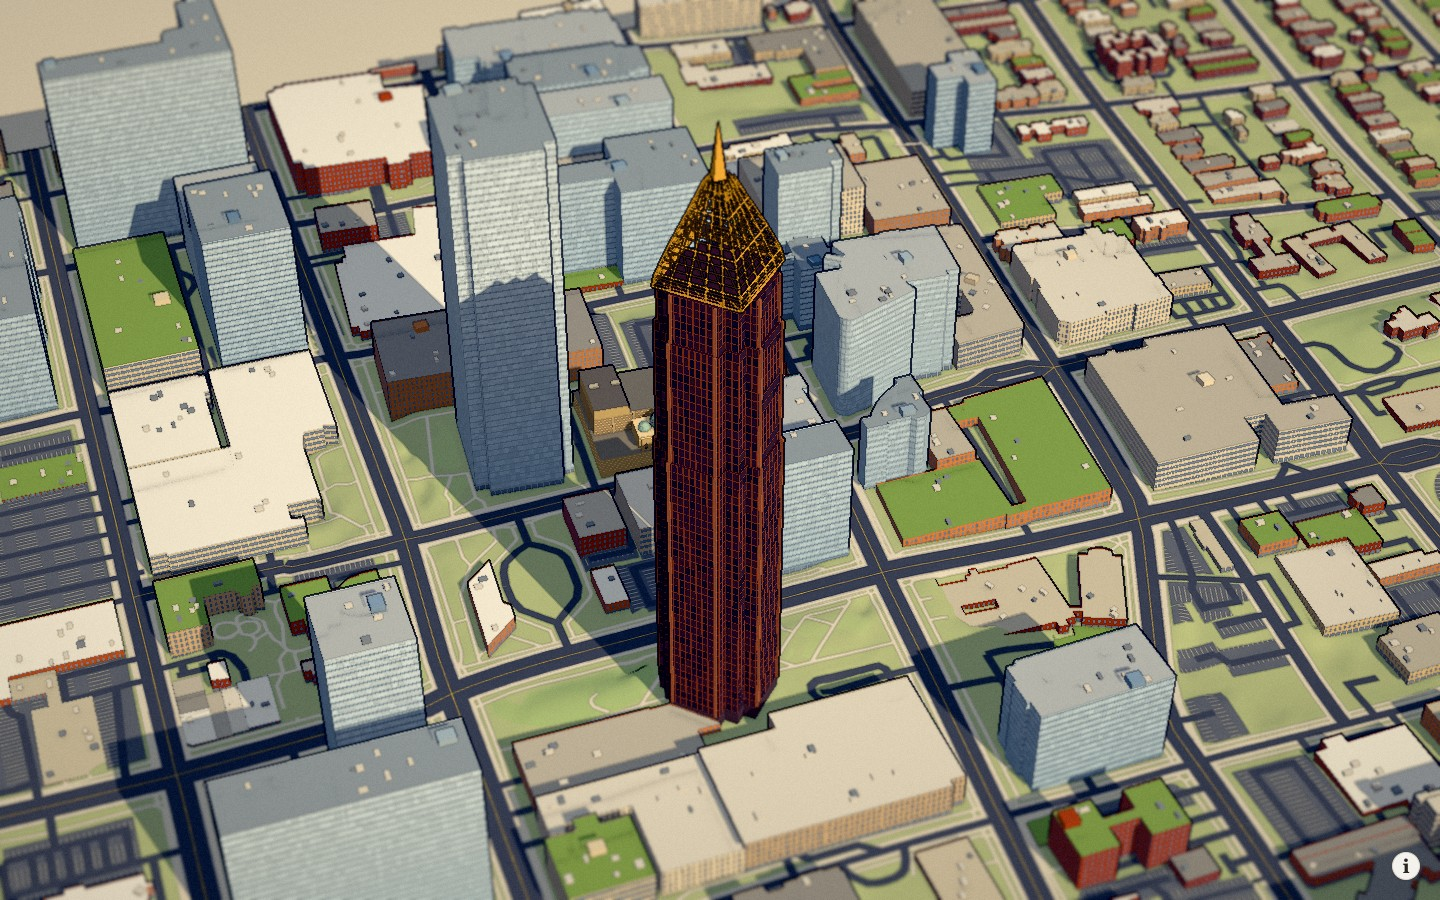
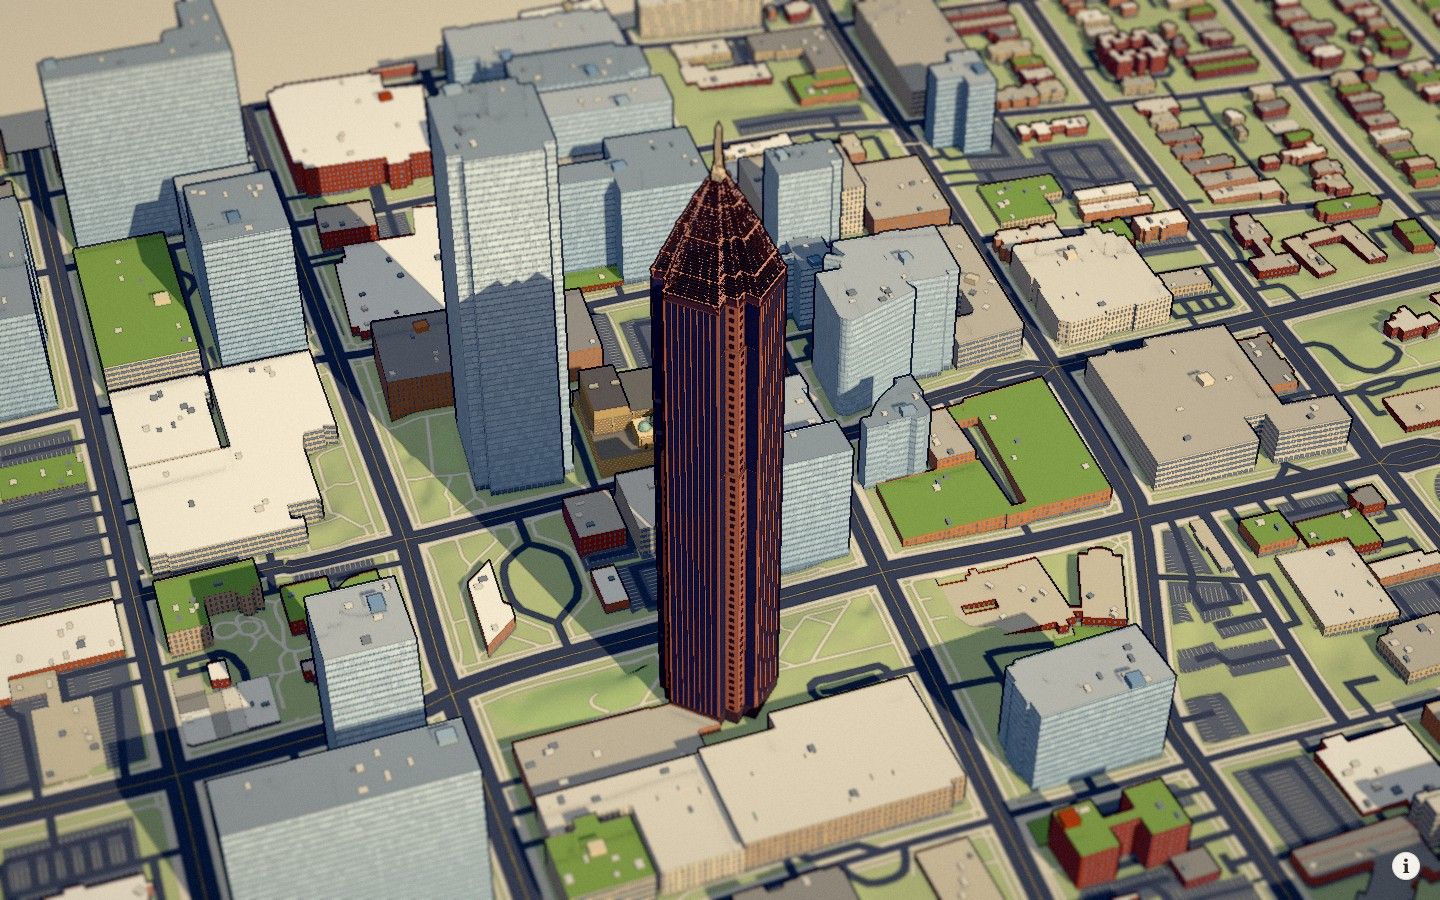
Seat the Plaza lattice above the stepped office tower

Changed region(s): [[0.4375, 0.1556, 0.5625, 0.8089]]

diff --git a/web/src/city/midtown-landmarks.ts b/web/src/city/midtown-landmarks.ts
@@ -1,5 +1,5 @@
-import { CylinderGeometry, Vector3 } from 'three';
-import { type Builder, type P2 } from '../vignette/geom';
+import { CylinderGeometry, DoubleSide, Mesh, MeshLambertMaterial, Vector3 } from 'three';
+import { Builder, rng, type P2 } from '../vignette/geom';
 import type { VBuilding } from '../vignette/world';
 import { localLandmarkShell } from './landmark-shell';
 
@@ -19,95 +19,187 @@ function rod(batch: Builder, a: Point, b: Point, radius: number, color: string) 
 }
 
 function tower(shell: Shell) {
-  const { ring, prism, lights, facade } = shell;
-  const copper = '#985e4f',
-    shadow = '#513e43';
-  // The survey picks up the four stair-stepped wings at 45 degrees to North Avenue.
-  const plan = [...ring];
+  const { body, lights, prism } = shell;
+  const rose = '#b58070',
+    pier = '#c58d79',
+    glass = '#505061';
+  const plan = [...shell.ring];
   const signed = plan.reduce((sum, [x, z], i) => {
     const next = plan[(i + 1) % plan.length];
     return sum + x * next[1] - z * next[0];
   }, 0);
   if (signed < 0) plan.reverse();
-  prism(plan, shell.base, 8, '#63545a', shadow);
-  for (const [lo, hi, scale, floors] of [
-    [8, 153, 1, 33],
-    [153, 216, 0.96, 14],
-    [216, 240, 0.91, 6],
+  const outline = (scale: number): P2[] =>
+    plan.map(([x, z]) => {
+      // The broad central wings run to the roof. Only the intermediate shoulders step inward.
+      return Math.max(Math.abs(x), Math.abs(z)) > 21 ? [x, z] : [scale * x, scale * z];
+    });
+  prism(plan, shell.base, 8, '#68595b', '#71615d');
+  const random = rng(1992);
+  for (const [lo, hi, scale, rows] of [
+    [8, 151, 1, 33],
+    [151, 216, 0.94, 15],
+    [216, 238, 0.89, 5],
   ]) {
-    const outline: P2[] = plan.map(([x, z]) => [x * scale, z * scale]);
-    prism(outline, lo, hi, copper, shadow);
-    outline.forEach((a, i) => {
-      const b = outline[(i + 1) % outline.length];
-      const dx = b[0] - a[0],
+    const walls = outline(scale);
+    prism(walls, lo, hi, rose, '#8e6c62');
+    walls.forEach((a, i) => {
+      const b = walls[(i + 1) % walls.length],
+        dx = b[0] - a[0],
         dz = b[1] - a[1],
-        length = Math.hypot(dx, dz);
-      // Paired projecting piers frame the broad window banks of each wing.
-      if (length > 17) {
-        for (const t of [0.06, 0.94]) {
-          const x = a[0] + t * dx,
-            z = a[1] + t * dz;
-          shell.body.box(
-            1.3,
-            hi - lo,
-            1.3,
-            x + (0.48 * dz) / length,
-            (hi + lo) / 2,
-            z - (0.48 * dx) / length,
-            '#b07b65',
+        len = Math.hypot(dx, dz);
+      const pt = (u: number, y: number, depth: number): Point => [
+        a[0] + (dx * u + depth * dz) / len,
+        y,
+        a[1] + (dz * u - depth * dx) / len,
+      ];
+      function panel(batch: Builder, u: number, v: number, y: number, top: number, depth: number, color: string) {
+        batch.quad(pt(u, y, depth), pt(v, y, depth), pt(v, top, depth), pt(u, top, depth), color);
+      }
+      if (len > 15) {
+        // One uninterrupted glass ribbon per bay. Projecting jambs shade its edges.
+        const count = 8,
+          margin = 1.15,
+          pitch = (len - 2 * margin) / count;
+        for (let bay = 0; bay < count; bay++) {
+          const u = margin + bay * pitch,
+            v = u + pitch - 0.48;
+          panel(body, u, v, lo, hi, 0.07, glass);
+          panel(body, v, u + pitch, lo, hi, 0.48, pier);
+          body.quad(pt(v, lo, 0.07), pt(v, hi, 0.07), pt(v, hi, 0.48), pt(v, lo, 0.48), '#805a54');
+          body.quad(
+            pt(u + pitch, lo, 0.48),
+            pt(u + pitch, hi, 0.48),
+            pt(u + pitch, hi, 0.07),
+            pt(u + pitch, lo, 0.07),
+            '#93675e',
           );
+          for (let floor = 0; floor < rows; floor++) {
+            if (random() > 0.065) continue;
+            const y = lo + ((floor + 0.16) * (hi - lo)) / rows;
+            panel(lights, u + 0.1, v - 0.1, y, y + 2.4, 0.09, glass);
+          }
+        }
+      } else if (
+        Math.abs(dx * (a[0] + b[0]) + dz * (a[1] + b[1])) > Math.abs(dz * (a[0] + b[0]) - dx * (a[1] + b[1]))
+      ) {
+        // Narrow glass slots rise between successive punched masonry piers.
+        panel(body, 0.58, len - 0.58, lo, hi, 0.07, glass);
+        for (let floor = 0; floor < rows; floor++) {
+          if (random() > 0.09) continue;
+          const y = lo + ((floor + 0.18) * (hi - lo)) / rows;
+          panel(lights, 0.72, len - 0.72, y, y + 2.1, 0.09, glass);
+        }
+      } else {
+        // A single square punched opening on each short return separates the window banks.
+        const half = Math.min(1.13, len * 0.22);
+        for (let floor = 0; floor < rows; floor++) {
+          const y = lo + ((floor + 0.22) * (hi - lo)) / rows;
+          panel(random() < 0.09 ? lights : body, len / 2 - half, len / 2 + half, y, y + 2 * half, 0.07, '#50444b');
         }
       }
-      facade(
-        a,
-        outline[(i + 1) % outline.length],
-        lo,
-        hi,
-        floors,
-        2.8,
-        0.78,
-        0.89,
-        ['#413d48', '#504450', '#56474e'],
-        0.075,
-      );
     });
   }
-  // Open, tiered steel lattice. Horizontal ties and diagonal braces remain visible through it.
-  const tiers = [
-    [240, 20],
-    [246, 19],
-    [259, 14.6],
-    [274, 8.8],
-    [286, 4.4],
+
+  // A dark roof and a short open bearing frame keep the cage visibly above the occupied shaft.
+  const roof = outline(0.89);
+  prism(roof, 238, 238.65, '#875f58', '#55464a');
+  const steel = new Builder(),
+    finial = new Builder();
+  for (const [x, z] of roof) rod(steel, [x * 0.97, 238.65, z * 0.97], [x * 0.97, 242.4, z * 0.97], 0.48, rose);
+  // The projecting ledges at each break follow all twenty reentrant corners of the footprint.
+  for (let i = 0; i < roof.length; i++) {
+    const a = roof[i],
+      b = roof[(i + 1) % roof.length];
+    if (Math.hypot(a[0] - b[0], a[1] - b[1]) < 15) continue;
+    for (const t of [0.14, 0.86]) {
+      const x = a[0] + (b[0] - a[0]) * t,
+        z = a[1] + (b[1] - a[1]) * t;
+      const foot = t < 0.5 ? a : b;
+      rod(steel, [foot[0] * 0.97, 238.94, foot[1] * 0.97], [x * 0.98, 242.4, z * 0.98], 0.36, rose);
+    }
+  }
+  const profile = [
+    [242.4, 0.98],
+    [251, 0.83],
+    [265, 0.585],
+    [277, 0.345],
+    [285.2, 0.168],
   ];
-  const face = (side: number, t: number, y: number, r: number): Point => {
-    const k = (2 * t - 1) * r;
-    return [
-      [k, y, -r],
-      [r, y, k],
-      [-k, y, r],
-      [-r, y, -k],
-    ][side] as Point;
-  };
-  for (let i = 1; i < tiers.length; i++) {
-    const [lo, r] = tiers[i - 1],
-      [hi, s] = tiers[i];
-    for (let side = 0; side < 4; side++) {
-      for (let j = 0; j < 5; j++) {
-        rod(lights, face(side, j / 5, lo, r), face(side, j / 5, hi, s), 0.52, '#c29954');
-        rod(lights, face(side, j / 5, lo, r), face(side, (j + 1) / 5, hi, s), 0.27, '#bc8e4a');
+  for (let tier = 1; tier < profile.length; tier++) {
+    const [lo, s0] = profile[tier - 1],
+      [hi, s1] = profile[tier];
+    for (let side = 0; side < roof.length; side++) {
+      const a = roof[side],
+        b = roof[(side + 1) % roof.length];
+      const point = (t: number, s: number, y: number): Point => [
+        (a[0] + (b[0] - a[0]) * t) * s,
+        y,
+        (a[1] + (b[1] - a[1]) * t) * s,
+      ];
+      const bays = Math.max(1, Math.round((Math.hypot(b[0] - a[0], b[1] - a[1]) * s0) / 4.6));
+      rod(steel, point(0, s0 + 0.012, lo), point(1, s0 + 0.012, lo), 0.64, '#c79684');
+      for (let bay = 0; bay < bays; bay++) {
+        const u = bay / bays,
+          v = (bay + 1) / bays;
+        rod(steel, point(u, s0, lo), point(u, s1, hi), 0.3, '#bc8d82');
+        rod(steel, point(u, s0, lo), point(v, s1, hi), 0.19, '#af847d');
       }
-      for (let j = 0; j < 4; j++) {
-        const h = lo + ((hi - lo) * j) / 4,
-          w = r + ((s - r) * j) / 4;
-        rod(lights, face(side, 0, h, w), face(side, 1, h, w), j === 0 ? 0.6 : 0.3, '#d4a75f');
+      const courses = Math.ceil((hi - lo) / 1.25);
+      for (let course = 1; course <= courses; course++) {
+        const t = course / courses,
+          y = lo + t * (hi - lo),
+          s = s0 + t * (s1 - s0);
+        rod(steel, point(0, s, y), point(1, s, y), 0.27, '#ceaaa0');
       }
     }
   }
-  const spire = new CylinderGeometry(0.22, 3.8, 25.8, 4);
-  spire.translate(0, 298.9, 0);
-  lights.addGeometry(spire, '#d9ad66');
-  return shell.finish('#ffb742', 1.25);
+  // Square-to-diamond transitions form the shoulders and folded highlights of the obelisk.
+  const stations = [
+    [285.2, 3.2, 0],
+    [288.8, 3.0, 0],
+    [292.5, 2.18, Math.PI / 4],
+    [296.2, 1.72, 0],
+    [308.6, 1.45, 0],
+    [311.8, 0.04, 0],
+  ];
+  const corner = (side: number, [y, r, turn]: number[]): Point => [
+    Math.cos((side * Math.PI) / 2 + Math.PI / 4 + turn) * r,
+    y,
+    Math.sin((side * Math.PI) / 2 + Math.PI / 4 + turn) * r,
+  ];
+  for (let i = 1; i < stations.length; i++)
+    for (let side = 0; side < 4; side++) {
+      const a = corner(side, stations[i - 1]),
+        b = corner(side + 1, stations[i - 1]),
+        c = corner(side + 1, stations[i]),
+        d = corner(side, stations[i]);
+      finial.tri(a, b, c, '#d1c1ab');
+      finial.tri(a, c, d, i === 2 || i === 3 ? '#b8a48f' : '#d1c1ab');
+    }
+  const model = shell.finish('#ffe2b6', 0.75);
+  function glowing(builder: Builder, name: string, emissive: string) {
+    const material = new MeshLambertMaterial({
+      vertexColors: true,
+      side: DoubleSide,
+      emissive,
+      emissiveIntensity: 0,
+    });
+    const mesh = new Mesh(builder.geometry(), material);
+    mesh.name = name;
+    model.group.add(mesh);
+    return material;
+  }
+  const crown = glowing(steel, 'Terraced rose steel', '#ffae41');
+  const obelisk = glowing(finial, 'Faceted obelisk', '#ffebba');
+  return {
+    ...model,
+    setNight(night: number) {
+      model.setNight(night);
+      crown.emissiveIntensity = night * 1.45;
+      obelisk.emissiveIntensity = night * 1.2;
+    },
+  };
 }
 
 function theatre(shell: Shell) {

diff --git a/web/src/city/midtown-landmarks.test.ts b/web/src/city/midtown-landmarks.test.ts
@@ -35,6 +35,26 @@ it.each(sites)('replaces only the validated $name footprint at scene grade', (si
     expect(hits(100, 1)).toBeGreaterThan(0);
   }
 });
+it('seats the terraced frame on the roof and lights the separate faceted obelisk at night', () => {
+  const model = createMidtownLandmark(sites, sites[0], -1, () => 0)!;
+  const roof = new Box3().setFromObject(model.group.children[0]);
+  const crown = model.group.getObjectByName('Terraced rose steel') as Mesh;
+  const obelisk = model.group.getObjectByName('Faceted obelisk') as Mesh;
+  const steel = new Box3().setFromObject(crown),
+    tip = new Box3().setFromObject(obelisk);
+  expect(steel.min.y).toBeCloseTo(roof.max.y, 1);
+  expect(tip.min.y).toBeCloseTo(285.2);
+  expect(tip.max.y - tip.min.y).toBeCloseTo(26.6);
+  const frameLight = crown.material as MeshLambertMaterial,
+    tipLight = obelisk.material as MeshLambertMaterial;
+  model.setNight(0);
+  expect(frameLight.emissiveIntensity).toBe(0);
+  expect(tipLight.emissiveIntensity).toBe(0);
+  model.setNight(1);
+  expect(frameLight.emissiveIntensity).toBeGreaterThan(1);
+  expect(tipLight.emissiveIntensity).toBeGreaterThan(1);
+  expect(tipLight.emissive.b).toBeGreaterThan(frameLight.emissive.b);
+});
 it.each(sites)('keeps the generic building when the $name source or terrain is incomplete', (site) => {
   expect(createMidtownLandmark(sites, site, null, () => 0)).toBeNull();
   expect(createMidtownLandmark(sites, site, 0, () => null)).toBeNull();

diff --git a/docs/midtown-landmarks.md b/docs/midtown-landmarks.md
@@ -20,7 +20,7 @@ Peachtree Summit and 250 Williams remain with their respective owners.
 
 The 20-vertex footprint places the tower between Peachtree and West Peachtree. The mapped 311.8 m tip and the owner's 55-story count constrain its proportions. The daytime long view shows copper-colored piers and recessed vertical window strips at three shoulders. The architect's close view resolves horizontal steel ties inside the broad lower lattice. The owner's dusk view shows the cage lit gold against a darker shaft with scattered office lights. [Daylight skyline photograph](https://commons.wikimedia.org/wiki/File:BOA_Plaza_ATL_GA.jpg) · [Architect's detail photographs](https://www.architectmagazine.com/project-gallery/bank-of-america-plaza/) · [Owner's dusk cover](https://www.bankofamericaplaza.com/wp-content/uploads/2023/12/CPGroup-BankofAmericaPlaza-Atlanta-Brochure.pdf)
 
-The office setbacks at 153 and 216 m, the steel cage from 240 to 286 m, mast taper, bay spacing and lit-window pattern are illustrative estimates. The footprint belongs to the tower itself. The surrounding plaza and neighboring buildings use the tile's own geometry.
+The revised model follows the continuous dark glazing between narrow rose masonry piers on each broad face and the punched windows on the outer returns. The shoulders step in at 151 and 216 m. The top of the roof coping is 238.65 m above local grade. Short columns and braces support the rim at 242.4 m and leave an open band beneath it. The four lattice tiers follow the articulated plan and taper to the foot of the obelisk at 285.2 m. A folded shoulder, long shaft and pointed tip complete the final 26.6 m. These intermediate dimensions, bay spacing and occupied-window patterns are photographic estimates. The daylight scaffold uses rose steel. Night illumination is independently graded for the amber cage, pale obelisk and office windows. The footprint belongs to the tower itself. The surrounding plaza and neighboring buildings use the tile's own geometry.
 
 ## Fox Theatre
 
@@ -37,6 +37,7 @@ On a populated checkout with coverage integrated, stage the tile with `pnpm data
 | View | Target x, z | Bearing | Tilt | m/px | City renders |
 |---|---|---:|---:|---:|---|
 | Bank of America Plaza | 565, −2050 | 20° | 50° | 0.53 | [Day](log/ui/midtown-landmarks/plaza-day.jpg) · [Night](log/ui/midtown-landmarks/plaza-night.jpg) |
+| Plaza roof joint and obelisk, lower angle | −171, −2298 | −59° | 70° | 0.54 | [Day](log/ui/midtown-landmarks/plaza-crown-day.jpg) · [Night](log/ui/midtown-landmarks/plaza-crown-night.jpg) |
 | Fox Theatre from Ponce | 542, −2085 | 24° | 37° | 0.14 | [Day](log/ui/midtown-landmarks/theatre-day.jpg) · [Night](log/ui/midtown-landmarks/theatre-night.jpg) |
 | Peachtree marquee | 606, −2092 | −18° | 57° | 0.076 | [Day](log/ui/midtown-landmarks/marquee-day.jpg) · [Night](log/ui/midtown-landmarks/marquee-night.jpg) |
 

diff --git a/docs/build-log.md b/docs/build-log.md
@@ -1969,3 +1969,7 @@ The first Midtown row adds 800 metres of City north of the old square. Peachtree
 ### 2026-11-23 · Two Midtown buildings, three street views
 
 The first Midtown row caught Bank of America Plaza and the Fox Theatre in full. The Bank occupies just 1,961 m² at its feet. The Fox takes up 6,104 m², more than three times the area, and its two most recognizable entrances face different streets. The mapped one-story tag tells almost nothing about the fly tower, Ponce dome or Peachtree minarets. We built those silhouettes from exterior photographs on the surveyed perimeter and checked them at 11:30 a.m. and 11:30 p.m. From across the intersection, the surrounding towers hide much of the low theatre. A second camera looking along Peachtree catches the vertical FOX letters and the readerboard. [Source inventory and three matched camera pairs](midtown-landmarks.md) · [Daylight Plaza](log/ui/midtown-landmarks/plaza-day.jpg) · [Fox marquee at night](log/ui/midtown-landmarks/marquee-night.jpg)
+
+### 2026-11-23 · Where the Plaza's steel crown meets the roof
+
+A square lattice base cut across the recesses in the tower and made the roof look as if it extended inside the cage. The revised rim follows the same 20-corner plan as the roof beneath it. Short supports leave 3.75 m between the coping and rim, enough to see the joint from a lower angle. The daylight close-up also revealed that the wide office faces have continuous strips of dark glass, while the small square windows belong on the outer piers. Daylight and full-night views now show the same rose steelwork and faceted 26.6 m obelisk under two lighting conditions. All intermediate heights are estimated from photographs. [Daylight roof joint](log/ui/midtown-landmarks/plaza-crown-day.jpg) · [Full-night roof joint](log/ui/midtown-landmarks/plaza-crown-night.jpg) · [Matched skyline views and camera positions](midtown-landmarks.md)
